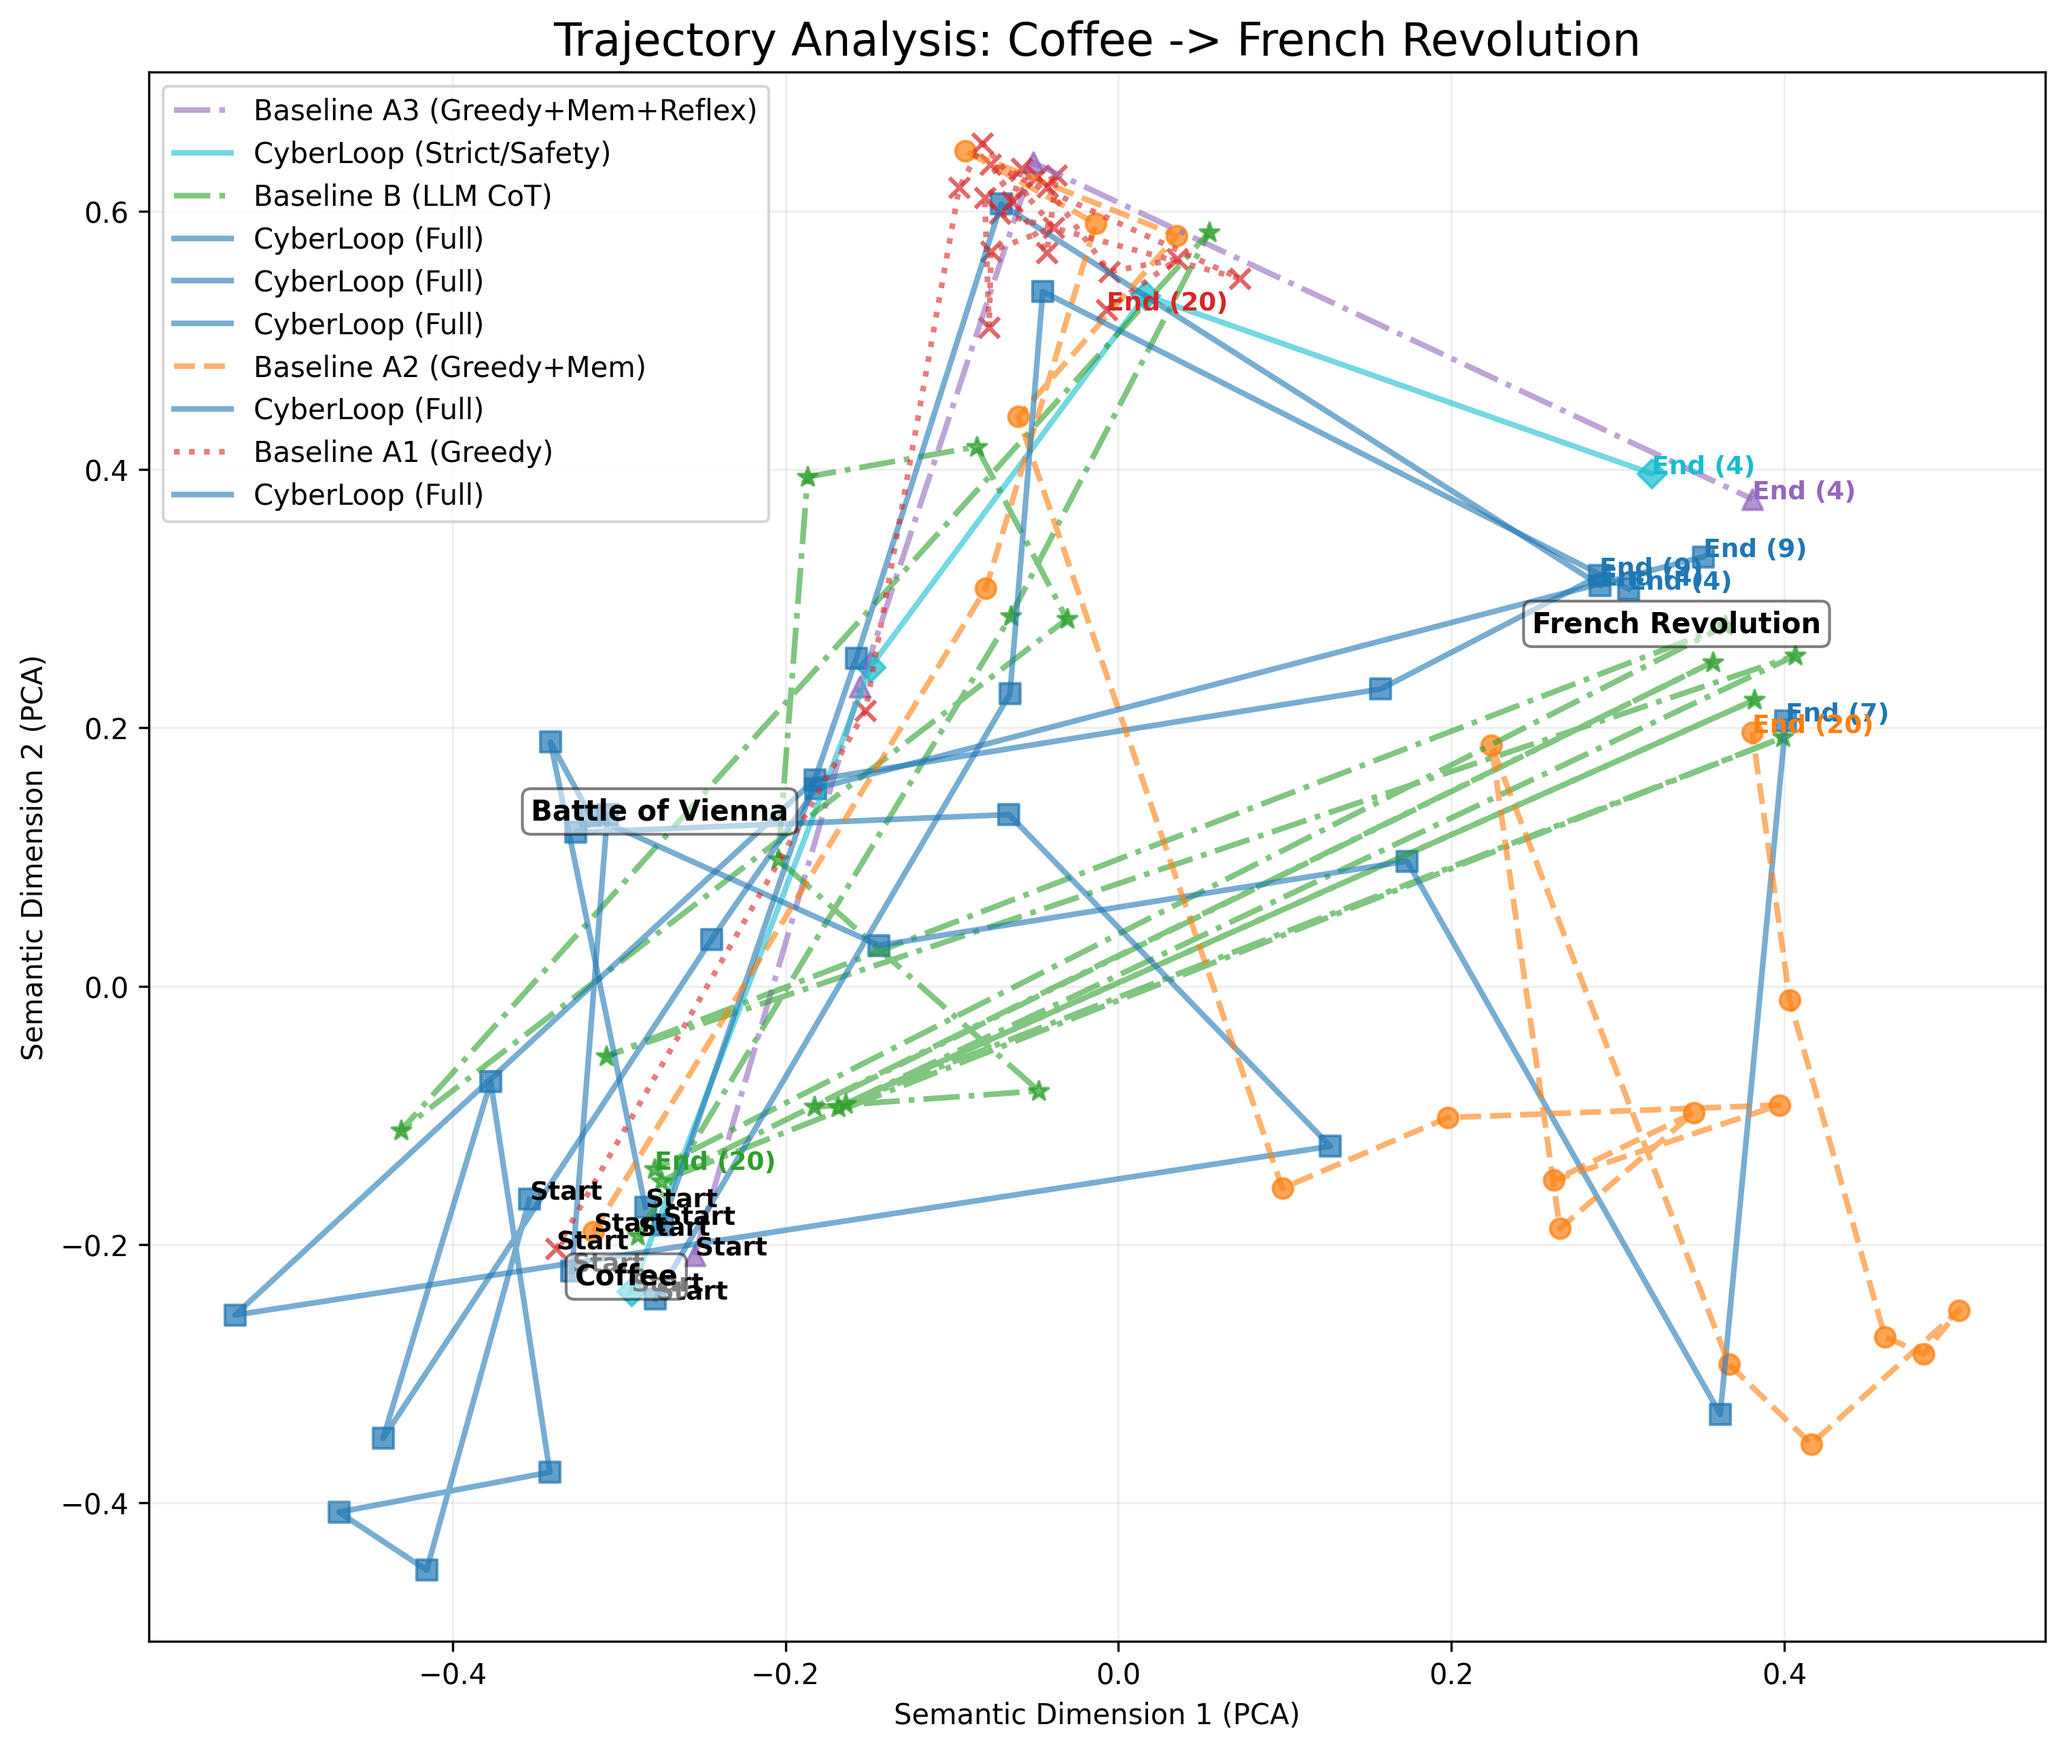
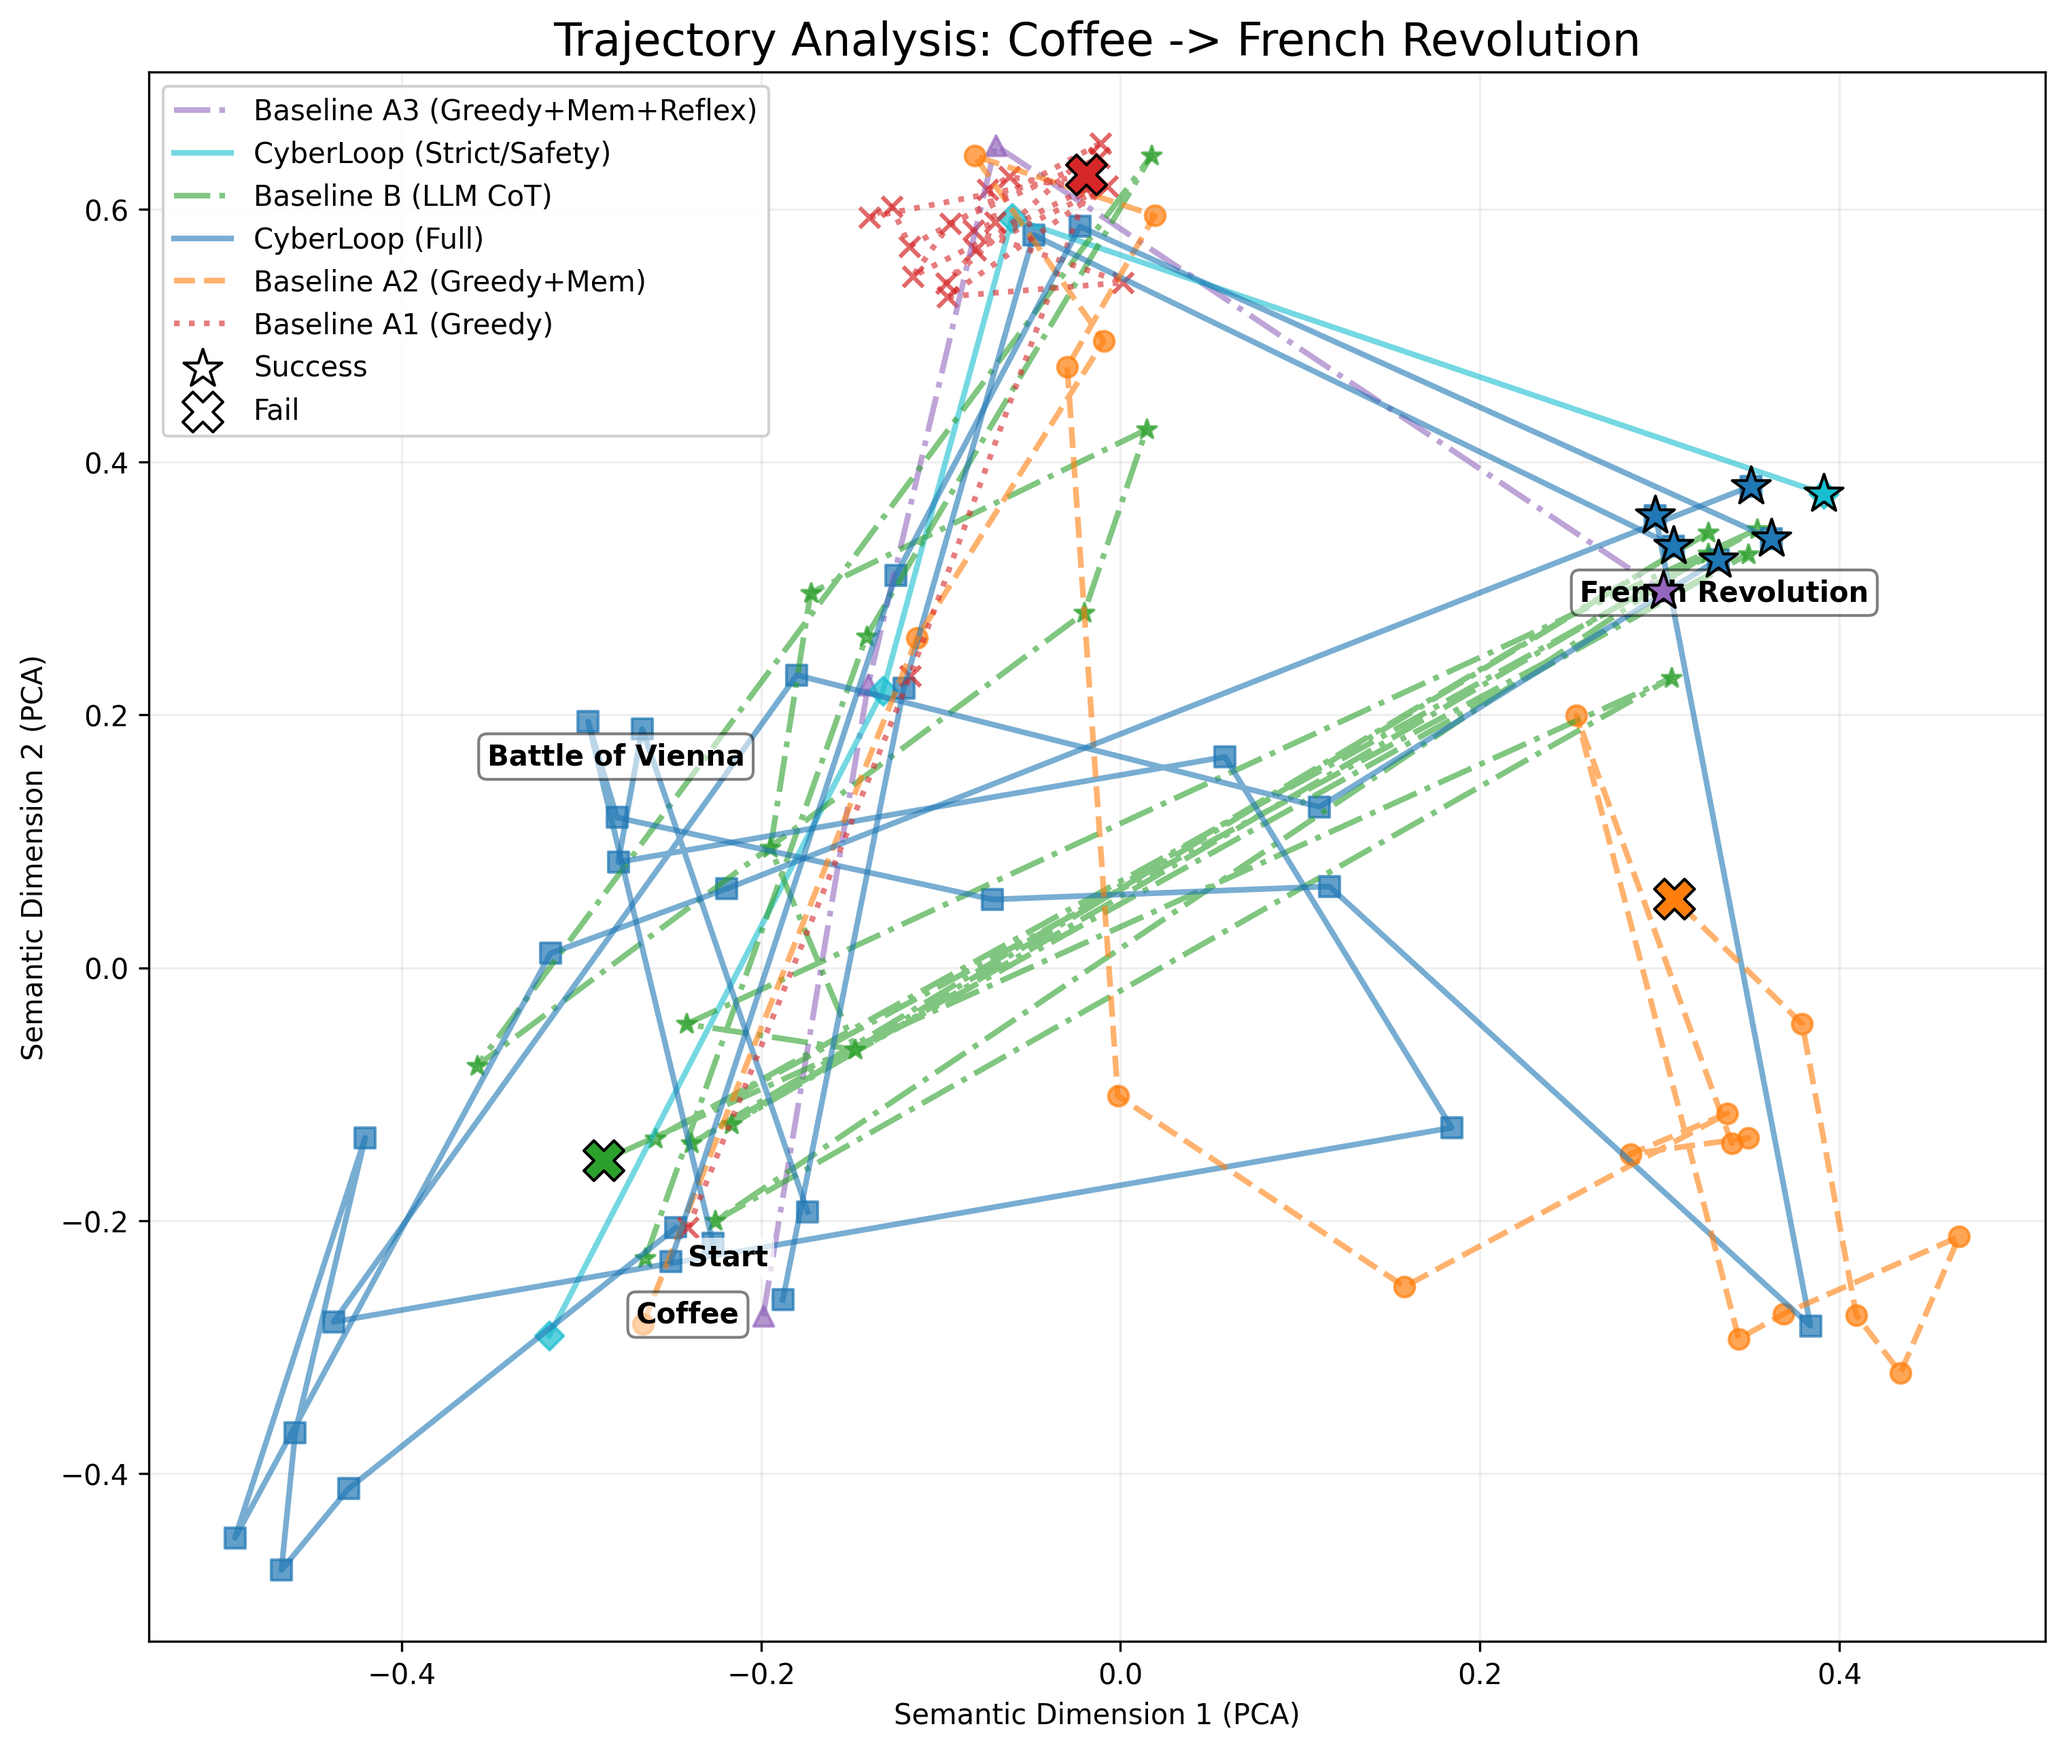
Enhance visualization script for success or not

diff --git a/experiments/wikipedia/visualization.py b/experiments/wikipedia/visualization.py
@@ -56,11 +56,19 @@ def load_logs(log_dir, scenario_filter=None):
 
         trajectory = []
         kinematics_series = []
+        is_success = False
 
         with open(f, 'r') as file:
             for line in file:
                 try:
                     entry = json.loads(line)
+
+                    # Check for Success/Failure signals
+                    msg = entry.get('msg', '')
+                    if "Stable state found" in msg or "Navigation Complete" in msg:
+                        is_success = True
+                    elif "Inner Loop exhausted" in msg or "Immediate stop for experiment comparison" in msg:
+                        is_success = False
 
                     # 1. State Trajectory
                     state = entry.get('state')
@@ -88,7 +96,8 @@ def load_logs(log_dir, scenario_filter=None):
                 'timestamp': timestamp,
                 'path': trajectory,
                 'kinematics': kinematics_series,
-                'label': f"{policy}"  # Simplified label
+                'label': f"{policy}",  # Simplified label
+                'success': is_success
             })
 
     return data
@@ -241,6 +250,7 @@ def run_visualization(scenario_id, title_suffix, output_filename, custom_landmar
         'cot': {'color': 'tab:green', 'ls': '-.', 'marker': '*', 'label': 'Baseline B (LLM CoT)'}
     }
 
+    seen_policies = set()
     for run in runs:
         policy = run['policy']
         path = run['path']
@@ -255,18 +265,40 @@ def run_visualization(scenario_id, title_suffix, output_filename, custom_landmar
         jitter = np.random.normal(0, 0.04, path_coords.shape)
         path_coords_jittered = path_coords + jitter
 
+        # Handle Legend Deduplication
+        lbl = style['label']
+        if lbl in seen_policies:
+            lbl = None
+        else:
+            seen_policies.add(lbl)
+
         # Plot Line
         plt.plot(path_coords_jittered[:, 0], path_coords_jittered[:, 1],
-                 color=style['color'], label=style['label'], linestyle=style['ls'], linewidth=2, alpha=0.6)
+                 color=style['color'], label=lbl, linestyle=style['ls'], linewidth=2, alpha=0.6)
 
         # Plot Markers
         plt.scatter(path_coords_jittered[:, 0], path_coords_jittered[:, 1],
                     color=style['color'], s=50, marker=style['marker'], alpha=0.7)
 
-        # Annotate Steps (First and Last few, or strided to avoid clutter)
-        # Showing start and end is usually most important
-        plt.text(path_coords_jittered[0, 0], path_coords_jittered[0, 1], "Start", fontsize=9, fontweight='bold', color='black')
-        plt.text(path_coords_jittered[-1, 0], path_coords_jittered[-1, 1], f"End ({len(path)})", fontsize=9, fontweight='bold', color=style['color'])
+        # Visual Indication of Success/Failure
+        is_success = run.get('success', False)
+        end_marker = '*' if is_success else 'X'
+
+        # Plot distinct end marker
+        plt.scatter(path_coords_jittered[-1, 0], path_coords_jittered[-1, 1],
+                    color=style['color'], s=200, marker=end_marker, edgecolors='black', zorder=10)
+
+    # Annotate Start (One-time, unjittered)
+    if runs and runs[0]['path']:
+        start_node = runs[0]['path'][0]
+        if start_node in node_map:
+            start_coord = node_map[start_node]
+            plt.text(start_coord[0], start_coord[1], "Start", fontsize=10, fontweight='bold', color='black',
+                     bbox=dict(facecolor='white', alpha=0.7, edgecolor='none', pad=2), zorder=20)
+
+    # Add Custom Legend for Success/Fail
+    plt.scatter([], [], color='white', marker='*', s=200, edgecolors='black', label='Success')
+    plt.scatter([], [], color='white', marker='X', s=200, edgecolors='black', label='Fail')
 
     # Highlight Landmarks
     key_landmarks = custom_landmarks if custom_landmarks else []
@@ -281,7 +313,8 @@ def run_visualization(scenario_id, title_suffix, output_filename, custom_landmar
     plt.title(f"Trajectory Analysis: {title_suffix}", fontsize=16)
     plt.xlabel("Semantic Dimension 1 (PCA)")
     plt.ylabel("Semantic Dimension 2 (PCA)")
-    plt.legend(loc='best')
+    # Legend top-left inside graph
+    plt.legend(loc='upper left', framealpha=0.9)
     plt.grid(True, alpha=0.2)
 
     output_path = os.path.join(OUTPUT_DIR, output_filename)
